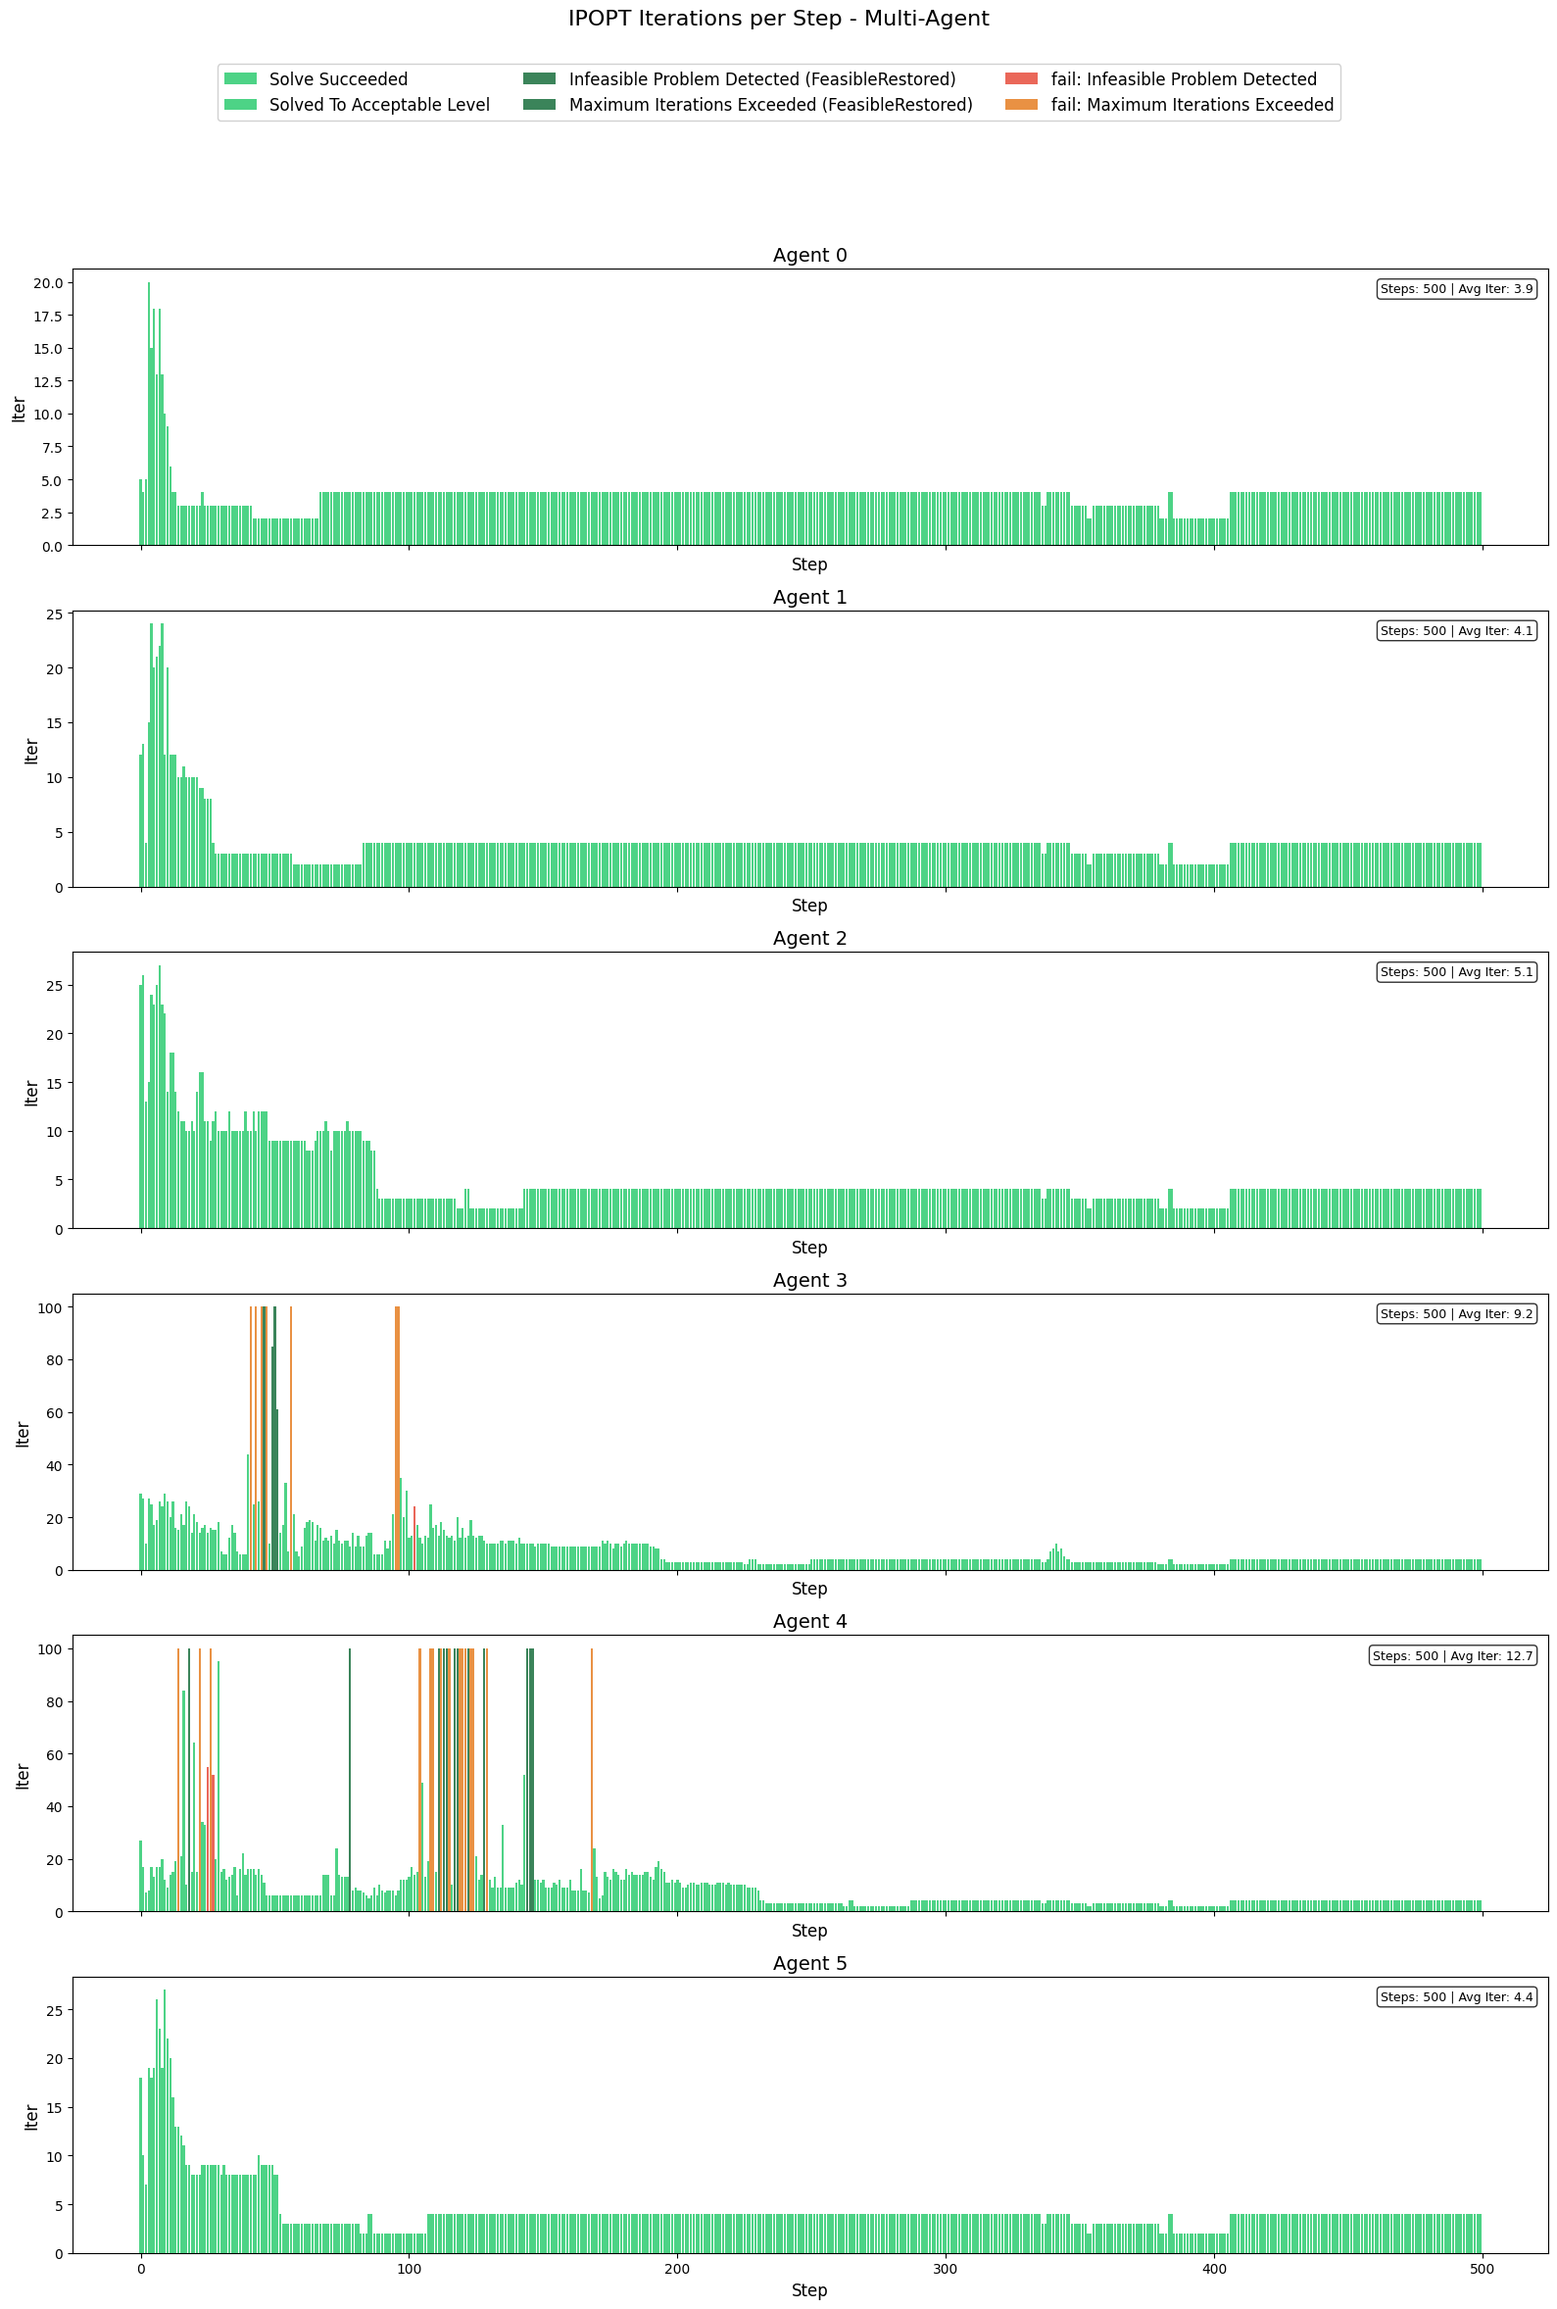
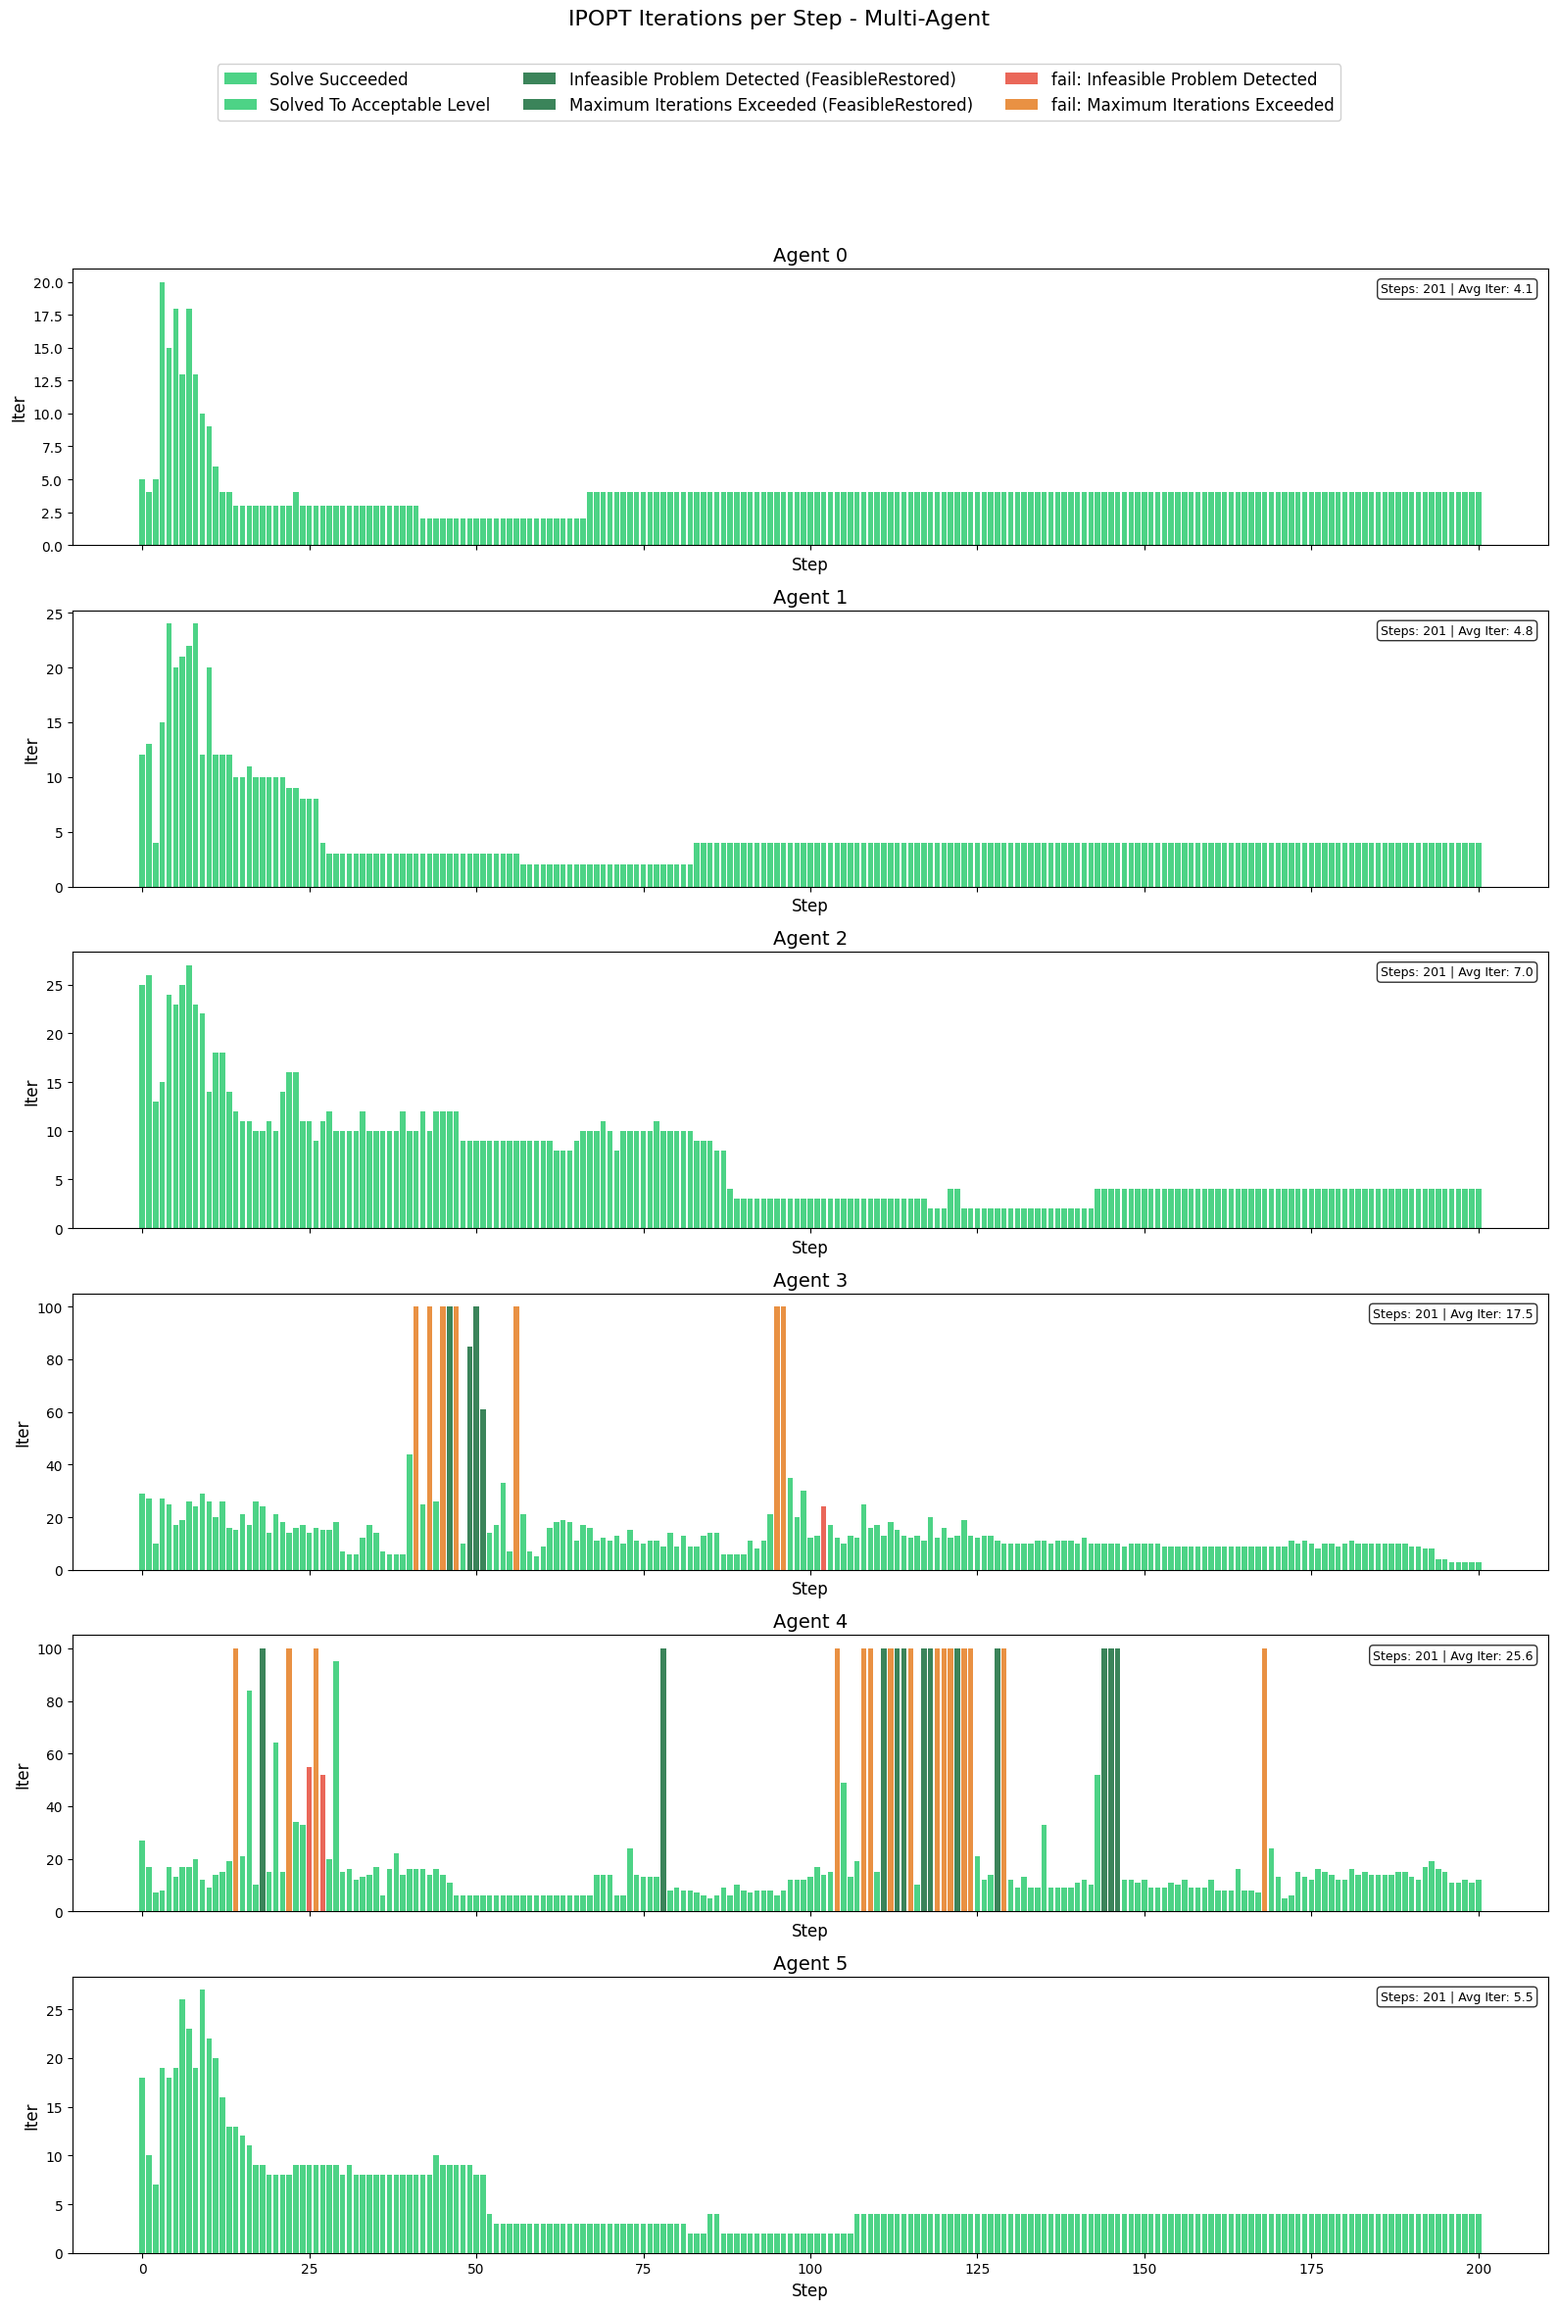
Added environment package list and setup instructions to README

diff --git a/README.md b/README.md
@@ -217,11 +217,46 @@ Plots solver iteration count and IPOPT status across steps.
 </div>
 
 ---
+## 🔧 Installing Requirements
+
+Create the following environment along with the required packages:
+
+```bash
+python test_ESO_NMPC_gcbf.py \
+  --gcbf-path logs/DoubleIntegrator/gcbf+/seed1234_20251130013419 \
+  --manual-scenario \
+  --epi 1 \
+  --max-step 400 \
+  --mass 0.1 \
+  --safety-margin 0.0 \
+  --mpc-horizon 3
+```
 
 ## 🚀 Running the Simulation
 
+### Train GCBF Model
+Train a GCBF model:
+
+```bash
+python train.py \
+  --algo gcbf+ \
+  --env DoubleIntegrator \
+  -n 8 \
+  --area-size 4 \
+  --loss-action-coef 1e-4 \
+  --n-env-train 4 \
+  --n-env-test 16 \
+  --lr-actor 1e-5 \
+  --lr-cbf 1e-5 \
+  --horizon 24 \
+  --steps 4000 \
+  --seed 1234 \
+  --save-interval 100
+```
+
+
 ### Manual Scenario
-Run a manually configured scenario with 1 episode:
+Run simulation with a manually configured scenario:
 
 ```bash
 python test_ESO_NMPC_gcbf.py \
@@ -235,7 +270,7 @@ python test_ESO_NMPC_gcbf.py \
 ```
 
 ### Random Scenario
-Run with random obstacle placement and multiple agents:
+Run simulation with random obstacle and agent placement:
 
 ```bash
 python test_ESO_NMPC_gcbf.py \
@@ -262,6 +297,7 @@ Visualize IPOPT iteration counts and solver status for specific agents:
 ```bash
 python -m analysis_debug.visualize_status_axis_ipopt \
   logs/eso_mpc_gcbf_results_lazy/1211-0240 \
+  --step-range 0 200 \
   --agents 0 1 2 3 4 5 \
   --combined \
   --show
@@ -271,10 +307,12 @@ python -m analysis_debug.visualize_status_axis_ipopt \
 
 View local subgraph evolution for a specific agent over time:
 
+Generates local graph images under logs/eso_mpc_gcbf_results/MMDD-HHMM/local_graph_logs/visualizations
+
 ```bash
 python -m analysis_debug.visualize_local_graphs \
   logs/eso_mpc_gcbf_results_lazy/1211-0240/local_graph_logs \
-  --agent 1 \
+  --agent 3 \
   --step-range 0 500 \
   --axis-mode fixed \
   --axis-limits -0 4 -0 4
@@ -284,9 +322,11 @@ python -m analysis_debug.visualize_local_graphs \
 
 View simulation results including mpc inputs, disturbance and agent trajectories:
 
+Generates full graph visualizations under logs/eso_mpc_gcbf_results/MMDD-HHMM/full_graph_logs/visualizations
+
 ```bash
-python python -m analysis_debug.visualize_full_graphs \
-  logs/eso_mpc_gcbf_results_lazy_manual/1210-0403/full_graph_logs \
+python -m analysis_debug.visualize_full_graphs \
+  logs/eso_mpc_gcbf_results_lazy/1211-0240/full_graph_logs \
   --episode 1 \
   --step-range 0 400 \
   --axis-mode fixed \
@@ -300,10 +340,10 @@ Perform offline ESO tuning on logged trajectories:
 
 ```bash
 python -m analysis_debug.ESO_tuning \
-  --log-dir logs/eso_mpc_gcbf_results_lazy_manual/1208-2309 \
-  --agent-id 0 \
+  --log-dir logs/eso_mpc_gcbf_results_lazy/1211-0240 \
+  --agent-id 4 \
   --episode 1 \
-  --axis y
+  --axis x
 ```
 
 Additional tuning runs:
